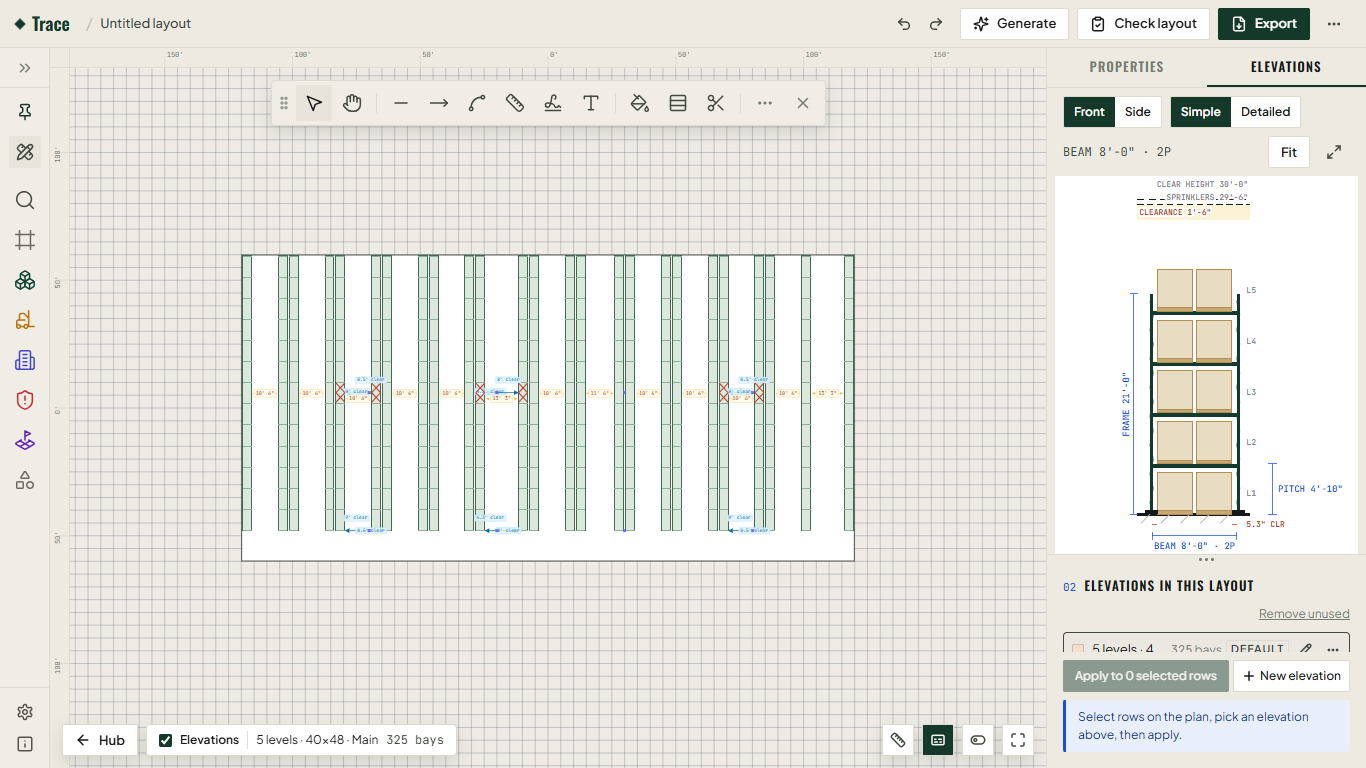
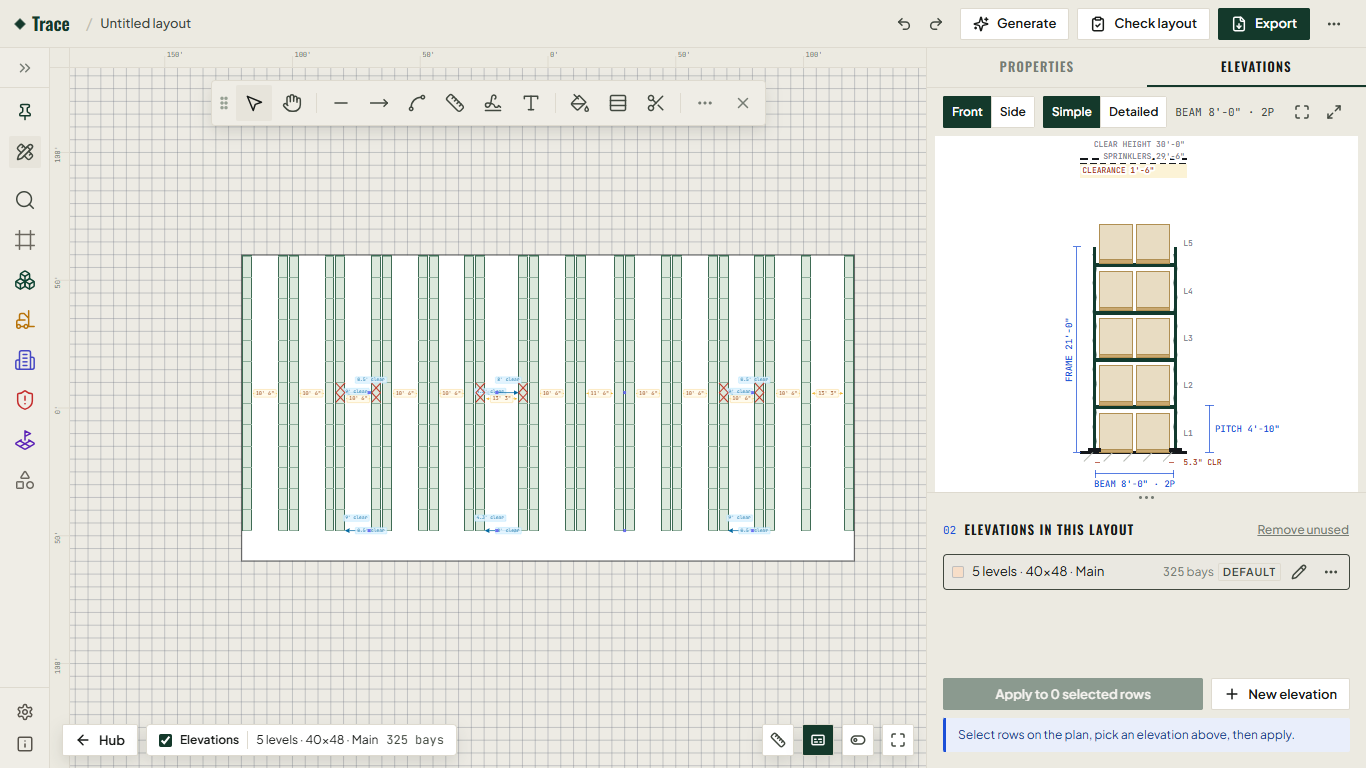
theme-p2: right panel resizable again; Elevations in the scanner
- Drag the right panel's canvas-side edge, 300-560; each tab its own width (Properties 320, Elevations 440 to
  start), remembered per browser in localStorage (never the layout); double-click the edge resets the shown tab.
  rAF-coalesced, no width transition while dragging; tabs stay 40 on the shared line, bottom row unchanged; the
  drawing toolbar's docked spot follows the live width
- Elevations: the list never drops under three rows (the drawing's split share capped by section 02's measured
  floor) - 3 rows at 1366x768 with the default split, also at 300 wide
- Elevations toolbar on one row at 440 (segments 32px sharing their lines, Fit and full screen an icon pair);
  footer buttons at the button size (13); row buttons 28 wide; every control 32/36/40/44 high
- TP_themeP2: right-panel widths, the Elevations control heights, row buttons, footer type, the list floor

diff --git a/src/components/Elevations/ElevationsTab.jsx b/src/components/Elevations/ElevationsTab.jsx
@@ -1,6 +1,6 @@
 import { useCallback, useEffect, useLayoutEffect, useMemo, useRef, useState } from 'react'
 import { createPortal } from 'react-dom'
-import { Plus, MoreHorizontal, Pencil, Maximize2 } from 'lucide-react'
+import { Plus, MoreHorizontal, Pencil, Maximize, Maximize2 } from 'lucide-react'
 import { useShallow } from 'zustand/react/shallow'
 import { useCanvasStore } from '../../store/useCanvasStore'
 import { typeById, typeIdAt, legendCounts, sprinklerClearance, isBeamRack, beamFace, sidesOf, frameDepthNote, frameNeededFor } from '../../utils/elevations'
@@ -30,6 +30,10 @@ import { Note } from '../shared/Note'
 
 const store = useCanvasStore
 const HANDLE = 10                 // the split handle (px)
+/* section 02 at its smallest: three list rows (3 × 36 + 2 × 4 gaps), its heading, the Apply row and the note, with
+   their padding — the drawing takes its share of the split but never squeezes the list under three rows */
+const SECTION_MIN = 276
+const LIST_MIN = 3 * 36 + 2 * 4   // three rows and their gaps
 const FIX_H = 34                  // the drawing's "Set these rows to N in" strip (px)
 const S = {
   note: { fontSize: 12, color: 'var(--steel)', lineHeight: 1.5 },
@@ -40,8 +44,10 @@ const S = {
 }
 const ICON = { size: 16, strokeWidth: 1.5, absoluteStrokeWidth: true }
 /* a segmented toggle: one bordered strip of secondaries, the pressed one pine (the .t-btn--secondary[aria-pressed]) */
-const segGroup = () => ({ display: 'flex', height: 32, borderRadius: 2, border: '1px solid var(--line)', background: 'var(--paper)', overflow: 'hidden', minWidth: 0 })
-const seg = () => ({ flex: 1, height: '100%', padding: '0 10px', border: 'none', borderRadius: 0, fontSize: 12 })
+/* a segmented control: 32px secondaries side by side, their 1px lines shared (each overlaps the one before), the
+   group's corners radius 2; the pressed one pine */
+const segGroup = () => ({ display: 'flex', height: 32, paddingLeft: 1, borderRadius: 2, overflow: 'hidden', minWidth: 0 })
+const seg = () => ({ flex: 1, height: 32, marginLeft: -1, padding: '0 8px', borderRadius: 0, fontSize: 12 })
 const ASSUMED_FT = Math.round(ASSUMED_CLEAR_IN / 12)
 const BEAM_FACES = [3, 4, 5, 6]
 
@@ -64,7 +70,7 @@ const racksUsing = (objects, T, id) => objects.filter(r => isBeamRack(r) && Arra
 /** THEME.md's section header: the number, the title, a muted note, something on the right. */
 function Head({ title, note, right }) {
   return (
-    <div style={{ display: 'flex', flexWrap: 'wrap', alignItems: 'baseline', columnGap: 8, rowGap: 4, flexShrink: 0, minWidth: 0 }}>
+    <div style={{ display: 'flex', flexWrap: 'wrap', alignItems: 'center', columnGap: 8, rowGap: 4, flexShrink: 0, minWidth: 0 }}>
       <span className="t-num" style={{ fontSize: 11, color: 'var(--elev-dim)' }}>02</span>
       <span className="t-head" style={{ color: 'var(--ink)' }}>{title}</span>
       {note && <span style={S.note}>{note}</span>}
@@ -146,7 +152,16 @@ export function ElevationsTab() {
     ro?.observe(el)
     return () => ro?.disconnect()
   }, [])
-  const drawH = Math.max(120, Math.round((bodyH - HANDLE) * split))
+  /* section 02's smallest height, measured: what it holds besides the list (the heading, the Apply row, the note — it
+     wraps on a narrow panel) plus three rows; SECTION_MIN until the list is on screen (the editor keeps the last) */
+  const [secMin, setSecMin] = useState(SECTION_MIN)
+  useLayoutEffect(() => {
+    const sec = body.current?.querySelector('[aria-label="Elevation list section"]'), list = sec?.querySelector('[aria-label="Elevation list"]')
+    if (!sec || !list) return
+    const need = Math.round(sec.offsetHeight - list.clientHeight + LIST_MIN)
+    if (Math.abs(need - secMin) > 1) setSecMin(need)
+  })
+  const drawH = Math.max(120, Math.min(Math.round((bodyH - HANDLE) * split), bodyH - HANDLE - secMin))
   const startSplit = (ev) => {
     if (ev.button !== 0) return
     ev.preventDefault()
@@ -167,11 +182,14 @@ export function ElevationsTab() {
         <div role="group" aria-label="Drawing detail" style={{ ...segGroup(), flexShrink: 0 }}>
           {[['simple', 'Simple'], ['detailed', 'Detailed']].map(([k, label]) => <button key={k} type="button" aria-pressed={detail === k} className="t-btn t-btn--secondary" style={seg(detail === k)} onClick={() => setPane({ detail: k })}>{label}</button>)}
         </div>
-        <span aria-label="Beam length" title={`Beam ${ftInDash(shownEntry.beamIn)}, ${per} pallet${per === 1 ? '' : 's'} per level${from ? ` — from ${from}` : ''} (set on the rack, not here)`} className="t-num" style={{ flex: '1 0 auto', fontSize: 12, color: 'var(--ink-2)', whiteSpace: 'nowrap' }}>
+        <span aria-label="Beam length" title={`Beam ${ftInDash(shownEntry.beamIn)}, ${per} pallet${per === 1 ? '' : 's'} per level${from ? ` — from ${from}` : ''} (set on the rack, not here)`} className="t-num" style={{ flex: '1 0 auto', fontSize: 11, color: 'var(--ink-2)', whiteSpace: 'nowrap' }}>
           BEAM {ftInDash(shownEntry.beamIn)} · {per}P
         </span>
-        <button type="button" aria-label="Fit" title="Fit (double-click empty space)" onClick={() => setFit(n => n + 1)} className="t-btn t-btn--secondary">Fit</button>
-        <button type="button" aria-label="Full screen" title="Full screen (Esc closes)" onClick={() => setFull(n => n + 1)} className="t-icon"><Maximize2 {...ICON} /></button>
+        {/* Fit and full screen: a pair of icon buttons, no gap between them — at 440 the toolbar fits on one row */}
+        <div style={{ display: 'flex', flexShrink: 0 }}>
+          <button type="button" aria-label="Fit" title="Fit (double-click empty space)" onClick={() => setFit(n => n + 1)} className="t-icon"><Maximize {...ICON} /></button>
+          <button type="button" aria-label="Full screen" title="Full screen (Esc closes)" onClick={() => setFull(n => n + 1)} className="t-icon"><Maximize2 {...ICON} /></button>
+        </div>
       </div>
       {/* below the toolbar: the drawing (the split's share, 65% to start) | the handle | section 02 (the rest) */}
       <div ref={body} style={{ flex: 1, minHeight: 0, display: 'flex', flexDirection: 'column' }}>
@@ -229,7 +247,7 @@ function List({ T, active, counts, made, rowsSelected }) {
   const madeType = made?.id ? typeById(T, made.id) : null
   return (
     <div aria-label="Elevation list section" style={{ display: 'flex', flexDirection: 'column', minHeight: 0, flex: 1, padding: '12px 16px 16px', gap: 8 }}>
-      <Head title="Elevations in this layout" right={<button type="button" onClick={() => removeUnused(store)} title="Remove the elevations no bay uses" style={{ ...S.link, color: 'var(--steel)', fontSize: 12 }}>Remove unused</button>} />
+      <Head title="Elevations in this layout" right={<button type="button" onClick={() => removeUnused(store)} title="Remove the elevations no bay uses" className="t-btn" style={{ background: 'transparent', color: 'var(--steel)', fontWeight: 500, fontSize: 12, padding: '0 8px', marginRight: -8, textDecoration: 'underline' }}>Remove unused</button>} />
       <div role="list" aria-label="Elevation list" style={{ flex: 1, minHeight: 0, overflowY: 'auto', display: 'flex', flexDirection: 'column', gap: 4 }}>
         {(T?.types || []).map(t => {
           const on = active && t.id === active.id, lit = made?.id === t.id
@@ -241,18 +259,18 @@ function List({ T, active, counts, made, rowsSelected }) {
               <span aria-label="Elevation name" style={{ flex: 1, minWidth: 0, overflow: 'hidden', textOverflow: 'ellipsis', whiteSpace: 'nowrap', fontSize: 13, color: 'var(--ink)' }} title={nameOf(T, t)}>{nameOf(T, t)}</span>
               <span style={{ fontSize: 12, color: 'var(--steel)', whiteSpace: 'nowrap' }}><span className="t-num">{counts.get(t.id) || 0}</span> bays</span>
               {t.id === T.defaultId && <span aria-label="default" className="t-cap" style={{ padding: '0 4px', borderRadius: 2, background: 'var(--bg2)', color: 'var(--ink-2)', border: '1px solid var(--line)' }}>DEFAULT</span>}
-              <button type="button" aria-label={`Edit ${nameOf(T, t)}`} title="Change this elevation" onClick={(ev) => { ev.stopPropagation(); startEdit(store, t.id) }} className="t-icon" style={{ width: 24 }}><Pencil size={14} strokeWidth={1.5} absoluteStrokeWidth /></button>
-              <button type="button" aria-label={`${nameOf(T, t)} menu`} onClick={(ev) => { ev.stopPropagation(); const el = ev.currentTarget.closest('[role="listitem"]'); setMenu(m => (m?.id === t.id ? null : { id: t.id, el })) }} className="t-icon" style={{ width: 24 }}><MoreHorizontal size={14} strokeWidth={1.5} absoluteStrokeWidth /></button>
+              <button type="button" aria-label={`Edit ${nameOf(T, t)}`} title="Change this elevation" onClick={(ev) => { ev.stopPropagation(); startEdit(store, t.id) }} className="t-icon" style={{ width: 28 }}><Pencil size={16} strokeWidth={1.5} absoluteStrokeWidth /></button>
+              <button type="button" aria-label={`${nameOf(T, t)} menu`} onClick={(ev) => { ev.stopPropagation(); const el = ev.currentTarget.closest('[role="listitem"]'); setMenu(m => (m?.id === t.id ? null : { id: t.id, el })) }} className="t-icon" style={{ width: 28 }}><MoreHorizontal size={16} strokeWidth={1.5} absoluteStrokeWidth /></button>
               {menu?.id === t.id && <RowMenu t={t} T={T} anchor={menu.el} onClose={closeMenu} />}
             </div>
           )
         })}
       </div>
-      <div style={{ display: 'flex', gap: 4, flexShrink: 0, minWidth: 0 }}>
-        <button type="button" disabled={!rowsSelected || !active} onClick={() => active && assignSelected(store, active.id) && useElevTab.setState({ made: null })} className="t-btn t-btn--primary" style={{ flex: '1 1 0', minWidth: 0, padding: '0 8px', fontSize: 12, fontWeight: 500 }}>
+      <div style={{ display: 'flex', gap: 8, flexShrink: 0, minWidth: 0 }}>
+        <button type="button" disabled={!rowsSelected || !active} onClick={() => active && assignSelected(store, active.id) && useElevTab.setState({ made: null })} className="t-btn t-btn--primary" style={{ flex: '1 1 0', minWidth: 0, padding: '0 12px' }}>
           <span style={{ minWidth: 0, overflow: 'hidden', textOverflow: 'ellipsis' }}>Apply to {rowsSelected} selected row{rowsSelected === 1 ? '' : 's'}</span>
         </button>
-        <button type="button" disabled={!pr} onClick={() => startNew(store)} className="t-btn t-btn--secondary" style={{ gap: 4, padding: '0 8px', fontSize: 12, fontWeight: 500 }}><Plus size={14} strokeWidth={1.5} absoluteStrokeWidth /> New elevation</button>
+        <button type="button" disabled={!pr} onClick={() => startNew(store)} className="t-btn t-btn--secondary"><Plus {...ICON} /> New elevation</button>
       </div>
       <Note level="note" role="note" aria-label="How to assign" style={{ flexShrink: 0 }}>
         <span>{made && madeType && <><strong style={{ fontWeight: 600 }}>{made.kind === 'exists' ? 'Already exists' : made.kind === 'saved' ? 'Saved' : 'Created'}: {nameOf(T, madeType)}.</strong>{' '}</>}

diff --git a/src/__test__/plan/TP_themeP2.test.js b/src/__test__/plan/TP_themeP2.test.js
@@ -1,9 +1,13 @@
 // TP — theme-p2 (UI-AUDIT.md T3–T15, A2–A9, E2–E3, M1–M8, C2–C12): the chrome is one system. Type only on the scale
 // (11 12 13 14 15 16 18 26), weights to 600, one caption tracking (.08em), radii 2 / 4, tokens instead of hex,
-// one Note, one Modal, the frame's fixed sizes (top bar 48, panel headers 40, left 240, right 320, bottom row 32).
+// one Note, one Modal, the frame's sizes (top bar 48, panel headers 40, left 240, the right panel 300–560 by its edge,
+// bottom row 32).
 import { describe, it, expect } from 'vitest'
 import { readFileSync } from 'node:fs'
-import { RP_W, PANEL_HEAD_H, panelWidth } from '../../utils/rightPanel'
+import * as M from '../../utils/rightPanel'
+const { PANEL_HEAD_H, panelWidth } = M
+const mem = new Map()
+globalThis.localStorage = { getItem: (k) => (mem.has(k) ? mem.get(k) : null), setItem: (k, v) => mem.set(k, String(v)), removeItem: (k) => mem.delete(k) }
 
 const read = (p) => readFileSync(new URL('../../' + p, import.meta.url), 'utf8').split('\r\n').join('\n')
 
@@ -100,16 +104,61 @@ describe('TP — colour and shape', () => {
 })
 
 describe('TP — the frame', () => {
-  it('TP-frame: top bar 48; the left header and the right tabs 40 on one line; left 240 fixed (rail 50), right 320 on both tabs, no drag handles', () => {
+  it('TP-frame: top bar 48; the left header and the right tabs 40 on one line; left 240 fixed (rail 50); the right panel resizable by its canvas-side edge, below the tabs', () => {
     expect(read('components/Toolbar/TopBar.jsx')).toMatch(/export const TOP_BAR_H = 48/)
-    expect([PANEL_HEAD_H, RP_W, panelWidth({ tab: 'elevations' }), panelWidth({ tab: 'properties' })]).toEqual([40, 320, 320, 320])
+    expect(PANEL_HEAD_H).toBe(40)
     const ft = read('components/LeftPanel/FloatingToolbar.jsx')
     expect(ft).toMatch(/const PANEL_W {5}= 240/)
     expect(ft).toMatch(/const RAIL_W {6}= 50/)
     expect(/aria-label="Resize library"|data-resize/.test(ft)).toBe(false)
-    expect(/Resize right panel/.test(read('components/RightPanel/index.jsx'))).toBe(false)
-    expect(read('components/RightPanel/index.jsx')).toMatch(/height:PANEL_HEAD_H, borderBottom:'1px solid var\(--line\)'/)
+    const rp = read('components/RightPanel/index.jsx')
+    expect(rp).toMatch(/height:PANEL_HEAD_H, borderBottom:'1px solid var\(--line\)'/)
+    expect(rp).toMatch(/aria-label="Resize right panel"[\s\S]*?onPointerDown=\{startResize\} onDoubleClick=\{resetPanelWidth\}/)
+    expect(rp).toMatch(/position:'absolute', top:PANEL_HEAD_H, bottom:0, left:-7, width:12/)
+    expect(rp).toMatch(/transition: drag \? 'none' : 'width/)
     expect(ft).toMatch(/top:0, height:PANEL_HEAD_H,\n\s+borderBottom:'1px solid var\(--panel-border\)'/)
+    // the toolbar's docked spot follows the live right-panel width
+    expect(ft).toMatch(/const canvasW = window\.innerWidth - W - rightW/)
+  })
+  it('TP-right-width: Properties 320 and Elevations 440 to start; 300–560; each tab its own width, remembered per browser (never the layout); double-click resets the shown tab', () => {
+    const RP = { ...M }
+    RP.useRightPanel.setState({ tab: 'properties', propsW: RP.RP_W, elevW: RP.ELEV_W })
+    expect([RP.RP_W, RP.ELEV_W, RP.RP_MIN, RP.RP_MAX]).toEqual([320, 440, 300, 560])
+    expect([panelWidth({ tab: 'properties', propsW: 320, elevW: 440 }), panelWidth({ tab: 'elevations', propsW: 320, elevW: 440 })]).toEqual([320, 440])
+    RP.setPanelWidth(400)
+    expect(RP.useRightPanel.getState().propsW).toBe(400)
+    RP.setRightPanel({ tab: 'elevations' }); RP.setPanelWidth(9999)
+    expect([RP.useRightPanel.getState().elevW, RP.useRightPanel.getState().propsW]).toEqual([560, 400])
+    RP.setPanelWidth(10)
+    expect(RP.useRightPanel.getState().elevW).toBe(300)
+    expect(JSON.parse(localStorage.getItem('trace.rightpanel.v1'))).toEqual({ tab: 'elevations', propsW: 400, elevW: 300 })
+    RP.resetPanelWidth()
+    expect(RP.useRightPanel.getState().elevW).toBe(440)
+    RP.setRightPanel({ tab: 'properties' }); RP.resetPanelWidth()
+    expect(RP.useRightPanel.getState().propsW).toBe(320)
+    // a drag writes once, on release
+    localStorage.removeItem('trace.rightpanel.v1'); RP.setPanelWidth(350, { persist: false })
+    expect([RP.useRightPanel.getState().propsW, localStorage.getItem('trace.rightpanel.v1')]).toEqual([350, null])
+    expect([RP.clampPanelW(NaN, 440), RP.clampPanelW(299.6), RP.clampPanelW(560.4)]).toEqual([440, 300, 560])
+    // nothing about the panel goes into the canvas store
+    expect(/useCanvasStore/.test(read('utils/rightPanel.js'))).toBe(false)
+  })
+  it('TP-elevations: controls on the height scale; row buttons 28 wide; the Apply / New elevation row at the button size (13); the list keeps three rows under any split', () => {
+    const t = read('components/Elevations/ElevationsTab.jsx')
+    const off = []
+    for (const m of t.matchAll(/<(button|select|input)\b[^>]*?style=\{\{([^}]*)\}\}/g)) for (const h of m[2].matchAll(/(?:^|[ ,{])(?:height|minHeight)\s*:\s*'?(\d+)/g)) if (![32, 36, 40, 44].includes(Number(h[1]))) off.push(m[0].slice(0, 80))
+    expect(off).toEqual([])
+    expect(t.match(/className="t-icon" style=\{\{ width: 28 \}\}/g)).toHaveLength(2)
+    expect(/style=\{\{ width: 24 \}\}/.test(t)).toBe(false)
+    const foot = t.slice(t.indexOf('disabled={!rowsSelected || !active}'), t.indexOf('New elevation</button>'))
+    expect(/fontSize|fontWeight/.test(foot)).toBe(false)
+    expect(t).toMatch(/const SECTION_MIN = 276/)
+    expect(t).toMatch(/const drawH = Math\.max\(120, Math\.min\(Math\.round\(\(bodyH - HANDLE\) \* split\), bodyH - HANDLE - secMin\)\)/)
+    // section 02's floor is measured: everything but the list, plus three rows
+    expect(t).toMatch(/const LIST_MIN = 3 \* 36 \+ 2 \* 4/)
+    expect(t).toMatch(/const need = Math\.round\(sec\.offsetHeight - list\.clientHeight \+ LIST_MIN\)/)
+    // segments are full 32px buttons sharing their lines
+    expect(t).toMatch(/const seg = \(\) => \(\{ flex: 1, height: 32, marginLeft: -1/)
   })
   it('TP-generate (S5): Generate is in the top bar, left of Check layout, the same 32px secondary; Esc and a click outside close its panel', () => {
     const top = read('components/Toolbar/TopBar.jsx')

diff --git a/src/components/RightPanel/index.jsx b/src/components/RightPanel/index.jsx
@@ -7,7 +7,8 @@ import { GroupPanel }      from './GroupPanel'
 import { ColumnCheckPanel } from './ColumnCheckPanel'
 import { LayoutCheckPanel } from './LayoutCheckPanel'
 import { ElevationsTab }   from '../Elevations/ElevationsTab'
-import { setRightPanel, useRightPanelWidth, PANEL_HEAD_H } from '../../utils/rightPanel'
+import { useState } from 'react'
+import { setRightPanel, setPanelWidth, resetPanelWidth, useRightPanelWidth, PANEL_HEAD_H, RP_MIN, RP_MAX } from '../../utils/rightPanel'
 
 /* Tab headings: Oswald 13, tracked .08em; the active one ink with a 2px pine rule on the shared 1px line. */
 const tabStyle = (on) => ({
@@ -18,17 +19,42 @@ const tabStyle = (on) => ({
 
 /* One right panel, two tabs — Properties (the selection, Check layout, the column check, groups, colour, layers, text,
    labels; a rack's elevation as one read-only line) and Elevations (the drawing and the elevation chips,
-   components/Elevations/ElevationsTab.jsx) — the tab remembered per browser. The panel is fixed at RP_W on both tabs
-   (utils/rightPanel.js); its header row is PANEL_HEAD_H, the same as the left panel's, on the same 1px line. It
-   never scrolls sideways: every row inside fits the width. */
+   components/Elevations/ElevationsTab.jsx) — the tab remembered per browser. Drag the canvas-side edge to resize
+   it (RP_MIN–RP_MAX); each tab keeps its own width, double-click the edge for the tab's default (utils/rightPanel.js).
+   Its header row is PANEL_HEAD_H, the same as the left panel's, on the same 1px line. It never scrolls sideways:
+   every row inside fits the width. */
 export function RightPanel() {
   const { width, tab } = useRightPanelWidth()
+  const [drag, setDrag] = useState(false)
+  const [hover, setHover] = useState(false)
+  /* the edge: rAF-coalesced while dragging (no width transition then, or the edge lags the pointer); written once on release */
+  const startResize = (e) => {
+    if (e.button !== 0) return
+    e.preventDefault()
+    const x0 = e.clientX, w0 = width
+    let raf = 0, v = w0
+    setDrag(true)
+    const move = (ev) => { v = w0 - (ev.clientX - x0); if (!raf) raf = requestAnimationFrame(() => { raf = 0; setPanelWidth(v, { persist: false }) }) }
+    const up = () => { window.removeEventListener('pointermove', move); window.removeEventListener('pointerup', up); if (raf) cancelAnimationFrame(raf); setPanelWidth(v); setDrag(false) }
+    window.addEventListener('pointermove', move); window.addEventListener('pointerup', up)
+  }
   return (
     <div aria-label="Right panel" style={{
       width, flexShrink:0, position:'relative', minWidth:0,
       background:'var(--surface)', borderLeft:'1px solid var(--line)',
       display:'flex', flexDirection:'column',
+      transition: drag ? 'none' : 'width .2s cubic-bezier(.4,0,.2,1)',
     }}>
+      {/* a 3px pill you can see in a 12px strip you can hit, on the canvas-side line; under the tabs, so the header row
+          and its line stay as they are */}
+      <div role="separator" aria-orientation="vertical" aria-label="Resize right panel"
+        aria-valuemin={RP_MIN} aria-valuemax={RP_MAX} aria-valuenow={width} title="Drag to resize · double-click to reset"
+        onPointerDown={startResize} onDoubleClick={resetPanelWidth}
+        onMouseEnter={() => setHover(true)} onMouseLeave={() => setHover(false)}
+        style={{ position:'absolute', top:PANEL_HEAD_H, bottom:0, left:-7, width:12, zIndex:5, cursor:'col-resize', touchAction:'none',
+          display:'flex', alignItems:'center', justifyContent:'center' }}>
+        <span style={{ width:3, height:40, borderRadius:2, background: drag ? 'var(--ink-2)' : 'var(--line-2)', opacity: drag || hover ? 1 : 0, transition:'opacity .12s' }} />
+      </div>
       <div role="tablist" aria-label="Right panel tabs" style={{ display:'flex', height:PANEL_HEAD_H, borderBottom:'1px solid var(--line)', flexShrink:0 }}>
         <button type="button" role="tab" aria-selected={tab === 'properties'} style={tabStyle(tab === 'properties')} onClick={() => setRightPanel({ tab: 'properties' })}>Properties</button>
         <button type="button" role="tab" aria-selected={tab === 'elevations'} style={tabStyle(tab === 'elevations')} onClick={() => setRightPanel({ tab: 'elevations' })}>Elevations</button>

diff --git a/src/utils/rightPanel.js b/src/utils/rightPanel.js
@@ -1,29 +1,43 @@
-// rightPanel.js — the right panel's tab (Properties | Elevations).
+// rightPanel.js — the right panel's tab (Properties | Elevations) and each tab's width.
 //
-// Presentation state, per browser (localStorage), never the canvas store. The frame is fixed (theme-p2): the left
-// panel 240, the right panel RP_W on both tabs — nothing drags it wider. GeneratePanel and the drawing toolbar's
-// default spot read the width to stay clear of it.
+// Presentation state, per browser (localStorage), never the canvas store or the layout. Drag the panel's canvas-side
+// edge to resize it (RP_MIN–RP_MAX); each tab remembers its own width (Properties RP_W to start, Elevations
+// ELEV_W); a double-click on the edge puts the shown tab back to its default. GeneratePanel and the drawing toolbar's
+// docked spot read the live width to stay clear of it.
 
 import { create } from 'zustand'
 
 const KEY = 'trace.rightpanel.v1'
-export const RP_W = 320
+export const RP_W = 320, ELEV_W = 440, RP_MIN = 300, RP_MAX = 560
 /** the frame's shared header height: the left panel's Library row and the right panel's tabs */
 export const PANEL_HEAD_H = 40
 
+export const clampPanelW = (w, fallback = RP_W) => (Number.isFinite(w) ? Math.round(Math.min(RP_MAX, Math.max(RP_MIN, w))) : fallback)
+export const defaultWidth = (tab) => (tab === 'elevations' ? ELEV_W : RP_W)
+
 const read = () => {
-  try { const v = JSON.parse(localStorage.getItem(KEY) || '{}'); return { tab: v?.tab === 'elevations' ? 'elevations' : 'properties' } }
-  catch { return { tab: 'properties' } }
+  try {
+    const v = JSON.parse(localStorage.getItem(KEY) || '{}')
+    return { tab: v?.tab === 'elevations' ? 'elevations' : 'properties', propsW: clampPanelW(v?.propsW, RP_W), elevW: clampPanelW(v?.elevW, ELEV_W) }
+  } catch { return { tab: 'properties', propsW: RP_W, elevW: ELEV_W } }
 }
 
-/** { tab: 'properties' | 'elevations' } */
+/** { tab: 'properties' | 'elevations', propsW, elevW } */
 export const useRightPanel = create(() => read())
-export function setRightPanel(patch) {
-  useRightPanel.setState(patch)
+const save = () => {
   const s = useRightPanel.getState()
-  try { localStorage.setItem(KEY, JSON.stringify({ tab: s.tab })) } catch { /* private window */ }
+  try { localStorage.setItem(KEY, JSON.stringify({ tab: s.tab, propsW: s.propsW, elevW: s.elevW })) } catch { /* private window */ }
 }
-/** The panel's width: fixed, the same on both tabs. */
-export const panelWidth = () => RP_W
+export function setRightPanel(patch) { useRightPanel.setState(patch); save() }
+/** the shown tab's width, clamped; `persist: false` while a drag is live (written once on release) */
+export function setPanelWidth(w, { persist = true } = {}) {
+  const s = useRightPanel.getState(), k = s.tab === 'elevations' ? 'elevW' : 'propsW'
+  useRightPanel.setState({ [k]: clampPanelW(w, defaultWidth(s.tab)) })
+  if (persist) save()
+}
+/** the shown tab back to its default width */
+export const resetPanelWidth = () => setPanelWidth(defaultWidth(useRightPanel.getState().tab))
+/** The panel's width for that state: each tab its own. */
+export const panelWidth = (s) => (s.tab === 'elevations' ? clampPanelW(s.elevW, ELEV_W) : clampPanelW(s.propsW, RP_W))
 /** The panel's live width and tab, for the panel itself and what keeps clear of it. */
 export function useRightPanelWidth() { const s = useRightPanel(); return { width: panelWidth(s), tab: s.tab } }

diff --git a/src/__test__/plan/EV_elevations.test.js b/src/__test__/plan/EV_elevations.test.js
@@ -776,20 +776,21 @@ describe('EV — the editor (v2 §B–C, E)', () => {
     const rp = src('components/RightPanel/index.jsx')
     expect(rp).toMatch(/>Properties<\/button>[\s\S]*>Elevations<\/button>/)
     expect(rp).toMatch(/<ElevationsTab \/>/)
-    // theme-p2: the panel is a fixed 320 on both tabs — no resize handle; the tab is remembered
-    expect(/Resize right panel/.test(rp)).toBe(false)
-    expect([RP.panelWidth({ tab: 'elevations' }), RP.panelWidth({ tab: 'properties' })]).toEqual([320, 320])
-    RP.setRightPanel({ tab: 'elevations' })
-    expect(JSON.parse(localStorage.getItem('trace.rightpanel.v1'))).toEqual({ tab: 'elevations' })
-    RP.setRightPanel({ tab: 'properties' })
+    // the canvas-side edge resizes the panel; each tab its own width (Elevations 440 to start), remembered per browser
+    expect(rp).toMatch(/<div role="separator" aria-orientation="vertical" aria-label="Resize right panel"[\s\S]*?onPointerDown=\{startResize\}/)
+    expect([RP.panelWidth({ tab: 'elevations', propsW: 320, elevW: 520 }), RP.panelWidth({ tab: 'properties', propsW: 320, elevW: 520 })]).toEqual([520, 320])
+    RP.setRightPanel({ tab: 'elevations', elevW: 555 })
+    expect(JSON.parse(localStorage.getItem('trace.rightpanel.v1'))).toMatchObject({ tab: 'elevations', elevW: 555 })
+    RP.setRightPanel({ tab: 'properties', elevW: 440 })
     const tab = src('components/Elevations/ElevationsTab.jsx')
     // 1. the top never moves: the toolbar and the fixed-height drawing box sit above the swap, shared by both states
     const tTop = tab.indexOf('role="toolbar" aria-label="Drawing toolbar"'), tBox = tab.indexOf('data-drawing-box'), tSwap = tab.indexOf('? <Editor ')
     expect([tTop > 0, tBox > tTop, tSwap > tBox]).toEqual([true, true, true])
     const tBar = tab.slice(tTop, tBox)
     expect(['aria-label="View"', 'BEAM {ftInDash(shownEntry.beamIn)} · {per}P', 'aria-label="Fit"', 'aria-label="Full screen"'].map(k => tBar.indexOf(k)).every((v, i, a) => v > 0 && (i === 0 || v > a[i - 1]))).toBe(true)
-    // the split: the drawing its share of the body below the toolbar (65% to start), the same in both states; a handle between
-    expect(tab).toMatch(/const drawH = Math\.max\(120, Math\.round\(\(bodyH - HANDLE\) \* split\)\)/)
+    // the split: the drawing its share of the body below the toolbar (65% to start), the same in both states; a handle
+    // between; never so much that the list (section 02) drops under three rows
+    expect(tab).toMatch(/const drawH = Math\.max\(120, Math\.min\(Math\.round\(\(bodyH - HANDLE\) \* split\), bodyH - HANDLE - secMin\)\)/)
     expect(tab).toMatch(/<div style=\{\{ height: drawH, flexShrink: 0,/)
     expect(tab).toMatch(/height=\{drawFix \? drawH - FIX_H : drawH\} controls=\{false\} paper fitSignal=\{fitSignal\} fullSignal=\{fullSignal\}\s+readOnly=\{!e\}/)   // read-only in the list; beams drag only in the editor
     const hIdx = tab.indexOf('role="separator" aria-orientation="horizontal" aria-label="Resize drawing"')

diff --git a/src/components/LeftPanel/FloatingToolbar.jsx b/src/components/LeftPanel/FloatingToolbar.jsx
@@ -1,6 +1,6 @@
 import { useState, useRef, useEffect, useLayoutEffect, useCallback, useMemo } from 'react'
 import { placeFloat, floatAvoidRects, floatFreeHeight } from '../../utils/floatPlace'
-import { RP_W, PANEL_HEAD_H } from '../../utils/rightPanel'
+import { useRightPanelWidth, PANEL_HEAD_H } from '../../utils/rightPanel'
 import { openSetup } from '../../utils/project'
 import { createPortal } from 'react-dom'
 import {
@@ -1046,8 +1046,9 @@ export function FloatingToolbar() {
   const showWordmark = !collapsed
   /* the drawing toolbar's default: centred on the canvas (between the panels), 12px under the ruler */
   const showRulers = useCanvasStore(s => s.showRulers)
+  const rightW = useRightPanelWidth().width
   const dockedPos = ({ w }) => {
-    const canvasW = window.innerWidth - W - RP_W
+    const canvasW = window.innerWidth - W - rightW
     return { x: Math.round(W + Math.max(8, (canvasW - w) / 2)), y: 48 + (showRulers ? 20 : 0) + 12 }
   }
 

diff --git a/CLAUDE.md b/CLAUDE.md
@@ -67,7 +67,10 @@ The `.t-*` classes at the end of `index.css` are the only control styles; use th
   theme shadow, 48px title row with an X; Esc and an outside click close). Floats and chips: `t-float`.
 - One message box: `components/shared/Note.jsx`, levels error / warning / note from the theme box tokens.
 - Frame: top bar **48** (Generate sits in it, left of Check layout); the left panel **240** fixed (rail 50, no drag
-  handle) and the right panel **320** fixed on both tabs; their header rows (Library / the tabs) are both **40**
+  handle); the right panel resizable by its canvas-side edge, **300–560**, each tab its own width (Properties **320**,
+  Elevations **440** to start; `utils/rightPanel.js`, localStorage, never the layout; double-click the edge resets
+  the shown tab). The Elevations list never drops under three rows: the drawing's split share is capped by section
+  02's measured floor (`ElevationsTab.jsx` secMin). Their header rows (Library / the tabs) are both **40**
   (`PANEL_HEAD_H`) on one 1px line; panel padding 16; one 1px line on each panel's canvas side. The canvas's bottom
   row (`Canvas2.jsx` BOTTOM_ROW): Hub + the Elevations chip | the notices, centred | the corner buttons (measure,
   aisle labels, double-click fit, fit), all 32 high, 12 from the bottom. The drawing toolbar opens docked at the
